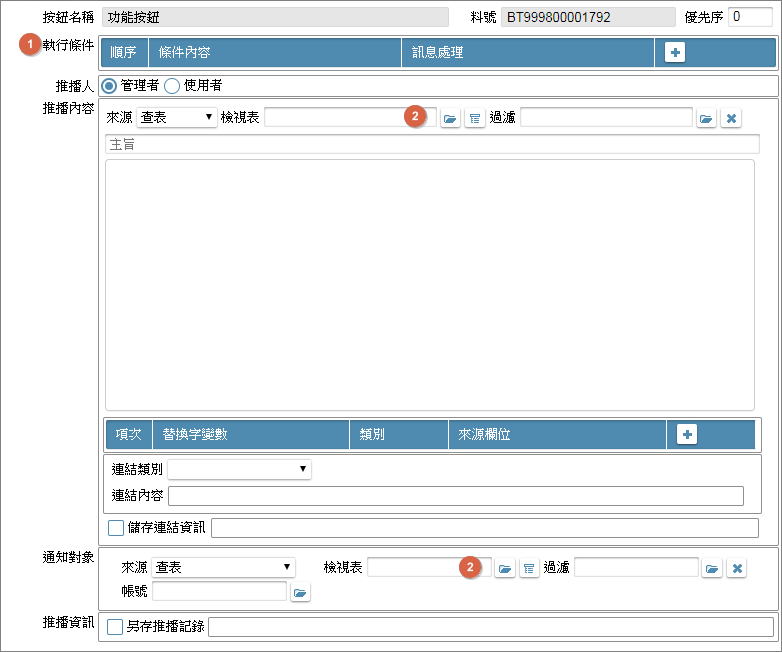
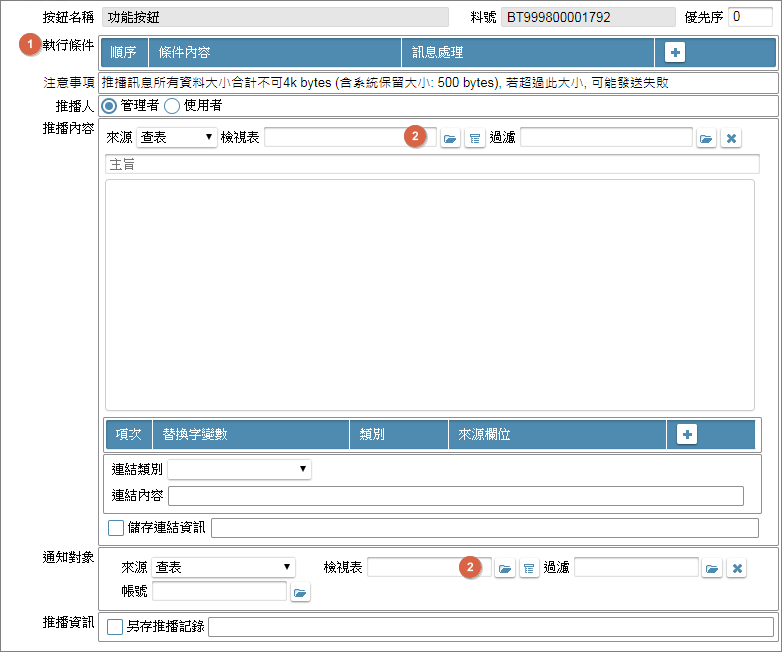
IDE_離線功能(按鍵加註)

Changed region(s): [[0.0614, 0.092, 1.0, 0.2761]]

diff --git a/8.10.0/UPDATE/ITEM_1/IDE/ButtonAnnotation/BAPort.md b/8.10.0/UPDATE/ITEM_1/IDE/ButtonAnnotation/BAPort.md
@@ -1,0 +1,23 @@
+### <div id="user">規劃人員</div>
+* how
+
+### <div id="updatedate">規劃日期</div>
+* 2020/12/01
+
+### <div id="trac">TRAC</div>
+* <ps>待補</ps> 
+
+## <div id="layout">版面</div>
+![pic][image_BALinkObject]
+
+## <div id="object-desc">欄位說明</div>
+* `(1)執行條件表格`
+    * 用途說明
+    * 規格說明
+        * [設定按鍵執行條件表格通則][link_ruledialog11]
+
+<!-- 圖片 -->
+[image_BALinkObject]:attachment/BALinkObject.png
+
+<!-- 超連結 -->
+[link_ruledialog11]:../RulesDialog/README#ruledialog11 "共用通則_開啟單據/設定按鍵執行條件表格通則"

diff --git a/8.10.0/UPDATE/ITEM_1/IDE/ButtonAnnotation/_sidebar.md b/8.10.0/UPDATE/ITEM_1/IDE/ButtonAnnotation/_sidebar.md
@@ -6,7 +6,7 @@
 * [執行限制](BALimitation)
 * [開啟它單](BADialog)
 * [開啟報表](BAReport)
-* [資料交易]
+* [資料交易](BAPort)
 * [離線資料交易](BAOfflinePort/README)
 * [資料交換](BAExchange)
 * [郵件發送](BAMail)
